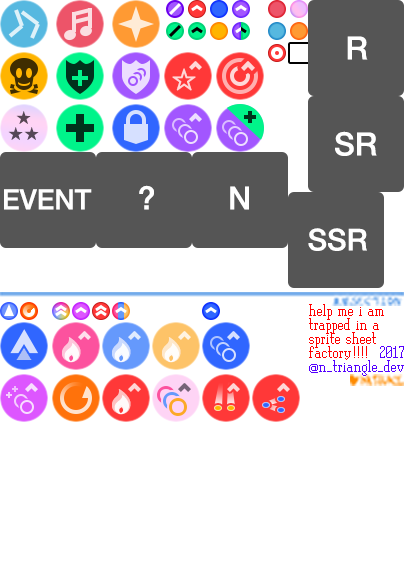
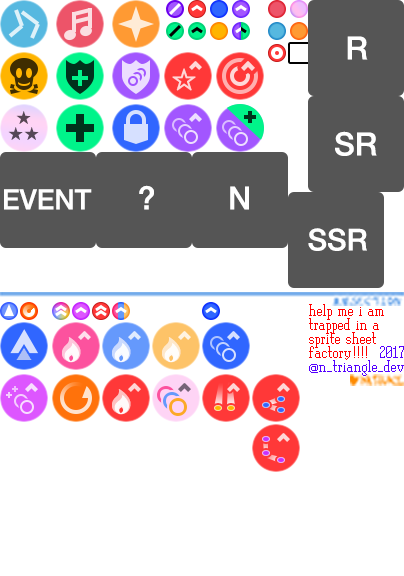
add slide bonus skill, fix event rewards

Changed region(s): [[0.6238, 0.7188, 0.7426, 0.8438]]

diff --git a/static/css/main.less b/static/css/main.less
@@ -133,7 +133,7 @@ footer {
 
 .icon {
   display:inline-block;
-  background-image:url(../img/smarkers.png?v6);
+  background-image:url(../img/smarkers.png?v7);
   .stitches-marker(-48px, -76px, 48px, 48px);
 
   &.icon_event {
@@ -217,6 +217,9 @@ footer {
   &.s_psbvariantb {
     .stitches-marker(-126px, -187px, 24px, 24px);
   }
+  &.s_psbvariantc {
+    .stitches-marker(-126px, -212px, 24px, 24px);
+  }
   &.s_unknown {
     .stitches-marker(0px, -143px, 24px, 1px);
   }
@@ -229,8 +232,8 @@ footer {
     &.m_da, &.m_vo, &.s_pl, &.s_cprot, &.s_combobonus, &.s_scorebonus,
     &.s_heal, &.s_life, &.s_overload, &.m_ba, &.s_allround, &.s_focus,
     &.s_perfelegant, &.s_sb, &.s_cbonus_based_life, &.s_mimic, &.s_synergy,
-    &.s_tuning, &.s_psbvarianta, &.s_psbvariantb {
-      background-image:url(../img/smarkers@2x.png?v6);
+    &.s_tuning, &.s_psbvarianta, &.s_psbvariantb, &.s_psbvariantc {
+      background-image:url(../img/smarkers@2x.png?v7);
       background-size: 202px 288px;
       border-radius:0px;
     }
@@ -921,7 +924,7 @@ span.var {
     left:1px; top:1px;
     display:block;
     width:9px; height:9px;
-    background: url("../img/smarkers.png?v6") -115px -26px no-repeat;
+    background: url("../img/smarkers.png?v7") -115px -26px no-repeat;
 
     content:"";
   }
@@ -947,7 +950,7 @@ span.var {
     left:1px; top:10px;
     display:block;
     width:9px; height:9px;
-    background: url("../img/smarkers.png?v6") -145px -22px no-repeat;
+    background: url("../img/smarkers.png?v7") -145px -22px no-repeat;
 
     content:"";
   }
@@ -1006,6 +1009,9 @@ span.var {
   &.ms_psbvariantb::after {
     background-position: -94px 0;
   }
+  &.ms_psbvariantc::after {
+    background-position: -94px 0;
+  }
   &.ms_unknown::after {
     background-position: -145px -22px;
   }
@@ -1013,7 +1019,7 @@ span.var {
       only screen and (-o-min-device-pixel-ratio: 13/10),
       only screen and (min-resolution: 120dpi) {
     &::after, &::before {
-      background-image:url("../img/smarkers@2x.png?v6")!important;
+      background-image:url("../img/smarkers@2x.png?v7")!important;
       background-size:202px 288px!important;
     }
   }

diff --git a/static/css/main.css b/static/css/main.css
@@ -79,7 +79,7 @@ footer {
 /* chara_partial */
 .icon {
   display: inline-block;
-  background-image: url(../img/smarkers.png?v6);
+  background-image: url(../img/smarkers.png?v7);
   background-position: -48px -76px;
   width: 48px;
   height: 48px;
@@ -219,6 +219,11 @@ footer {
   width: 24px;
   height: 24px;
 }
+.icon.s_psbvariantc {
+  background-position: -126px -212px;
+  width: 24px;
+  height: 24px;
+}
 .icon.s_unknown {
   background-position: 0px -143px;
   width: 24px;
@@ -253,8 +258,9 @@ footer {
   .icon.s_synergy,
   .icon.s_tuning,
   .icon.s_psbvarianta,
-  .icon.s_psbvariantb {
-    background-image: url(../img/smarkers@2x.png?v6);
+  .icon.s_psbvariantb,
+  .icon.s_psbvariantc {
+    background-image: url(../img/smarkers@2x.png?v7);
     background-size: 202px 288px;
     border-radius: 0px;
   }
@@ -961,7 +967,7 @@ span.var {
   display: block;
   width: 9px;
   height: 9px;
-  background: url("../img/smarkers.png?v6") -115px -26px no-repeat;
+  background: url("../img/smarkers.png?v7") -115px -26px no-repeat;
   content: "";
 }
 .icon.msprites.mm_vi::before {
@@ -983,7 +989,7 @@ span.var {
   display: block;
   width: 9px;
   height: 9px;
-  background: url("../img/smarkers.png?v6") -145px -22px no-repeat;
+  background: url("../img/smarkers.png?v7") -145px -22px no-repeat;
   content: "";
 }
 .icon.msprites.ms_pl::after {
@@ -1040,13 +1046,16 @@ span.var {
 .icon.msprites.ms_psbvariantb::after {
   background-position: -94px 0;
 }
+.icon.msprites.ms_psbvariantc::after {
+  background-position: -94px 0;
+}
 .icon.msprites.ms_unknown::after {
   background-position: -145px -22px;
 }
 @media only screen and (-webkit-min-device-pixel-ratio: 1.3), only screen and (-o-min-device-pixel-ratio: 13/10), only screen and (min-resolution: 120dpi) {
   .icon.msprites::after,
   .icon.msprites::before {
-    background-image: url("../img/smarkers@2x.png?v6") !important;
+    background-image: url("../img/smarkers@2x.png?v7") !important;
     background-size: 202px 288px!important;
   }
 }

diff --git a/toolchain/update_rich_history.py b/toolchain/update_rich_history.py
@@ -154,7 +154,7 @@ def log_events(have_logged, seen, local, remote):
 
         for rl in groups.values():
             seen.update(rl)
-        return json.dumps(groups)
+        return groups
 
     def eti(event_id):
         base = (events[event_id].type - 1) & 0xFF
@@ -167,15 +167,30 @@ def log_events(have_logged, seen, local, remote):
             if starlight.JST(events[internal_id(desc)].event_start).year >= 2099:
                 continue
 
+            cats = ge_cards(internal_id(desc), eti(internal_id(desc)))
             s.add(models.HistoryEventEntry(
                 descriptor=desc,
                 extra_type_info=eti(internal_id(desc)),
-                added_cards=ge_cards(internal_id(desc), eti(internal_id(desc))),
+                added_cards=json.dumps(cats),
                 event_name=events[internal_id(desc)].name,
 
                 start_time=starlight.JST(events[internal_id(desc)].event_start).timestamp(),
                 end_time=starlight.JST(events[internal_id(desc)].event_end).timestamp()
             ))
+
+            seen = set()
+            for cid in cats.get("progression", []):
+                s.merge(models.EventLookupEntry(card_id=cid, event_id=internal_id(desc), acquisition_type=1))
+                seen.add(cid)
+            for cid in cats.get("ranking", []):
+                s.merge(models.EventLookupEntry(card_id=cid, event_id=internal_id(desc), acquisition_type=2))
+                seen.add(cid)
+            for cid in cats.get("gacha", []):
+                s.merge(models.EventLookupEntry(card_id=cid, event_id=internal_id(desc), acquisition_type=3))
+                seen.add(cid)
+            for cid in cats.get("event", []):
+                if cid not in seen:
+                    s.merge(models.EventLookupEntry(card_id=cid, event_id=internal_id(desc), acquisition_type=0))
 
         # add event end markers
         # for desc in event_end_h_ids - have_logged:

diff --git a/starlight/en.py b/starlight/en.py
@@ -71,14 +71,15 @@ SKILL_DESCRIPTIONS = {
     27: """that Perfect notes will receive a <span class="let">{0}</span>% score bonus, and you will gain an extra <span class="let">{2}</span>% combo bonus""",
     28: """that Perfect notes will receive a <span class="let">{0}</span>% score bonus, and hold notes a <span class="let">{2}</span>% score bonus""",
     29: """that Perfect notes will receive a <span class="let">{0}</span>% score bonus, and flick notes a <span class="let">{2}</span>% score bonus""",
+    30: """that Perfect notes will receive a <span class="let">{0}</span>% score bonus, and slide notes a <span class="let">{2}</span>% score bonus""",
     31: """that you will gain an extra <span class="let">{0}</span>% combo bonus, and Nice/Great notes will become Perfect notes""",
     32: """to boost the score/combo bonus of Cute idols' active skills""",
     33: """to boost the score/combo bonus of Cool idols' active skills""",
     34: """to boost the score/combo bonus of Passion idols' active skills""",
 }
 
-SKILL_TYPES_WITH_PERCENTAGE_EFF_VAL1 = [1, 2, 3, 4, 14, 15, 21, 22, 23, 24, 26, 27, 28, 29, 31]
-SKILL_TYPES_WITH_PERCENTAGE_EFF_VAL2 = [21, 22, 23, 26, 27, 28, 29]
+SKILL_TYPES_WITH_PERCENTAGE_EFF_VAL1 = [1, 2, 3, 4, 14, 15, 21, 22, 23, 24, 26, 27, 28, 29, 30, 31]
+SKILL_TYPES_WITH_PERCENTAGE_EFF_VAL2 = [21, 22, 23, 26, 27, 28, 29, 30]
 
 REMOVE_HTML = re.compile(r"</?span[^>]*>")
 

diff --git a/table.py b/table.py
@@ -29,7 +29,7 @@ skill_type = filter_t("Skill Type", (
     option_t("Perf. Lock*",  "s_pl"),
     option_t("C. Guard",     "s_cprot"),
     option_t("Combo Bonus",  "s_combobonus"),
-    option_t("Score Bonus",  "s_scorebonus s_psbvarianta s_psbvariantb"),
+    option_t("Score Bonus",  "s_scorebonus s_psbvarianta s_psbvariantb s_psbvariantc"),
     option_t("Healer",       "s_heal"),
     option_t("H. Guard",     "s_life"),
     option_t("Overload",     "s_overload"),

diff --git a/enums.py b/enums.py
@@ -69,6 +69,7 @@ skill_type = enum([
     27, "Coordinate",
     28, "Perfect Score Bonus",
     29, "Perfect Score Bonus",
+    30, "Perfect Score Bonus",
     31, "Tuning",
 
     32, "Cute Ensemble",
@@ -182,6 +183,7 @@ skill_class = enum([
     27, "s_focus s_focus_flat",
     28, "s_psbvarianta",
     29, "s_psbvariantb",
+    30, "s_psbvariantc",
     31, "s_tuning",
 
     32, "s_sb",

diff --git a/starlight/__init__.py b/starlight/__init__.py
@@ -597,7 +597,7 @@ def check_version():
         # usually updates happen on the hour so this keeps our
         # schedule on the hour too
         t = time()
-        last_version_check = t - (t % 3600) - 30
+        last_version_check = t - (t % 3600)
         apiclient.versioncheck(check_version_api_recv)
 
 is_updating_to_new_truth = 0
